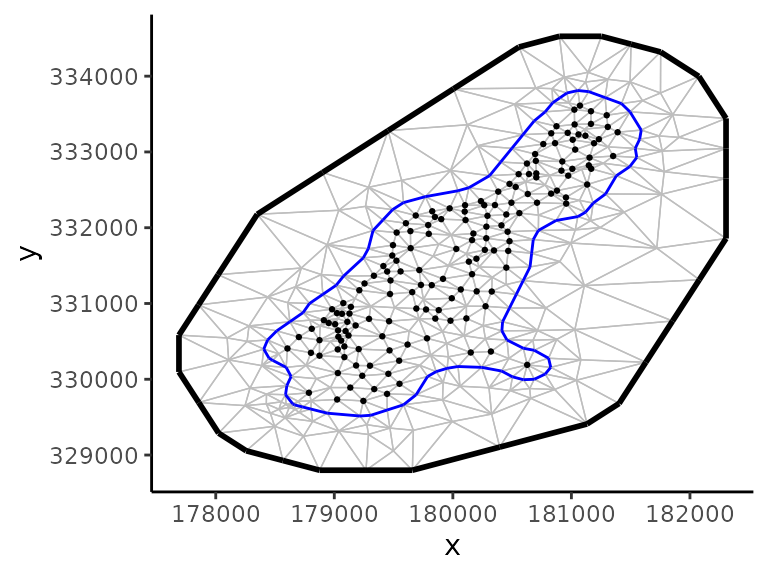
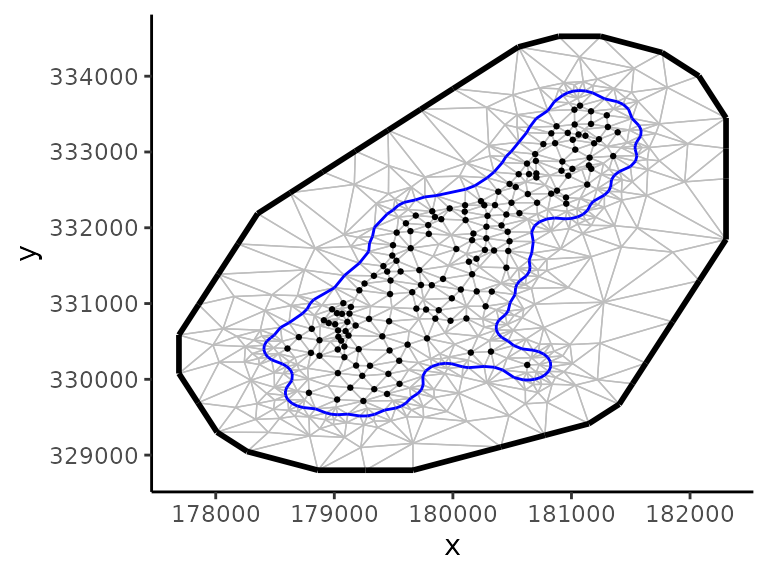
Built site for clustTMB: 0.0.1.0@48fe56d

Changed region(s): [[0.2188, 0.0625, 0.9375, 0.8125], [0.4688, 0.5, 0.5312, 0.5625], [0.7188, 0.875, 0.75, 0.9062]]

diff --git a/articles/SpatialExMeuseData.html b/articles/SpatialExMeuseData.html
@@ -173,38 +173,34 @@ measured in the topsoil of the Meuse river floodplain, Netherlands.
 cluster probability in clustTMB depends on the SPDE-FEM approximation to
 a spatial Gaussian Markov Random Field (GMRF) introduced by the package,
 <a href="https://www.r-inla.org/" class="external-link">R-INLA</a>. See <a href="#spatial-gmrf">Spatial GMRF</a> and <a href="#gating-network">Gating Network</a> for details on these clustTMB
-formulations.</p>
+formulations. The <a href="https://inlabru-org.github.io/fmesher" class="external-link">fmesher R package</a> (<a href="https://github.com/inlabru-org/fmesher" class="external-link">github source code</a>) is
+used to run functions needed to implement this SPDE-FEM method.</p>
 <div class="section level4">
 <h4 id="setting-up-the-spatial-mesh">Setting up the spatial mesh<a class="anchor" aria-label="anchor" href="#setting-up-the-spatial-mesh"></a>
 </h4>
 <p>The spatial model in clustTMB first requires the definition of the
-spatial mesh using the fmesher R package. This mesh defines the
-discretization of the continuous space using a constrained Delaunay
-triangulation. For details on building the spatial mesh, see <a href="https://becarioprecario.bitbucket.io/spde-gitbook/ch-intro.html#sec:mesh" class="external-link">Krainski
+spatial mesh. This mesh defines the discretization of the continuous
+space using a constrained Delaunay triangulation. For details on
+building the spatial mesh, see <a href="https://becarioprecario.bitbucket.io/spde-gitbook/ch-intro.html#sec:mesh" class="external-link">Krainski
 et al., 2021, Sec 2.6</a>.</p>
 <p>As an example, the spatial mesh for the meuse data is built using the
-R-INLA functions, inla.convex.hull() to set up the boundary and
-inla.mesh.2d() to generate the spatial mesh:</p>
+fmesher functions, fm_nonconvex_hull() to set up the boundary and
+fm_mesh_2d() to generate the spatial mesh:</p>
 <div class="sourceCode" id="cb5"><pre class="downlit sourceCode r">
-<code class="sourceCode R"><span><span class="kw"><a href="https://rdrr.io/r/base/library.html" class="external-link">library</a></span><span class="op">(</span><span class="va">INLA</span><span class="op">)</span> </span></code></pre></div>
-<pre><code><span><span class="co">## Loading required package: Matrix</span></span></code></pre>
-<pre><code><span><span class="co">## This is INLA_23.10.19-1 built 2023-10-19 08:26:30 UTC.</span></span>
-<span><span class="co">##  - See www.r-inla.org/contact-us for how to get help.</span></span>
-<span><span class="co">##  - List available models/likelihoods/etc with inla.list.models()</span></span>
-<span><span class="co">##  - Use inla.doc(&lt;NAME&gt;) to access documentation</span></span></code></pre>
-<div class="sourceCode" id="cb8"><pre class="downlit sourceCode r">
-<code class="sourceCode R"><span><span class="va">Loc</span> <span class="op">&lt;-</span> <span class="va">meuse</span><span class="op">[</span>, <span class="fl">1</span><span class="op">:</span><span class="fl">2</span><span class="op">]</span></span>
-<span><span class="va">Bnd</span> <span class="op">&lt;-</span> <span class="fu"><a href="https://rdrr.io/pkg/INLA/man/inla.nonconvex.hull.html" class="external-link">inla.nonconvex.hull</a></span><span class="op">(</span><span class="fu"><a href="https://rdrr.io/r/base/matrix.html" class="external-link">as.matrix</a></span><span class="op">(</span><span class="va">Loc</span><span class="op">)</span>, convex <span class="op">=</span> <span class="fl">200</span><span class="op">)</span></span>
-<span><span class="va">meuse.mesh</span> <span class="op">&lt;-</span> <span class="fu"><a href="https://rdrr.io/pkg/INLA/man/inla.mesh.2d.html" class="external-link">inla.mesh.2d</a></span><span class="op">(</span><span class="fu"><a href="https://rdrr.io/r/base/matrix.html" class="external-link">as.matrix</a></span><span class="op">(</span><span class="va">Loc</span><span class="op">)</span>,</span>
+<code class="sourceCode R"><span><span class="kw"><a href="https://rdrr.io/r/base/library.html" class="external-link">library</a></span><span class="op">(</span><span class="va"><a href="https://inlabru-org.github.io/fmesher/" class="external-link">fmesher</a></span><span class="op">)</span> </span>
+<span><span class="va">loc</span> <span class="op">&lt;-</span> <span class="va">meuse</span><span class="op">[</span>, <span class="fl">1</span><span class="op">:</span><span class="fl">2</span><span class="op">]</span></span>
+<span><span class="va">Bnd</span> <span class="op">&lt;-</span> <span class="fu">fmesher</span><span class="fu">::</span><span class="fu"><a href="https://inlabru-org.github.io/fmesher/reference/fm_nonconvex_hull.html" class="external-link">fm_nonconvex_hull</a></span><span class="op">(</span><span class="fu"><a href="https://rdrr.io/r/base/matrix.html" class="external-link">as.matrix</a></span><span class="op">(</span><span class="va">loc</span><span class="op">)</span>, convex <span class="op">=</span> <span class="fl">200</span><span class="op">)</span></span>
+<span><span class="va">meuse.mesh</span> <span class="op">&lt;-</span> <span class="fu">fmesher</span><span class="fu">::</span><span class="fu"><a href="https://inlabru-org.github.io/fmesher/reference/fm_mesh_2d.html" class="external-link">fm_mesh_2d</a></span><span class="op">(</span><span class="fu"><a href="https://rdrr.io/r/base/matrix.html" class="external-link">as.matrix</a></span><span class="op">(</span><span class="va">loc</span><span class="op">)</span>,</span>
 <span>  max.edge <span class="op">=</span> <span class="fu"><a href="https://rdrr.io/r/base/c.html" class="external-link">c</a></span><span class="op">(</span><span class="fl">300</span>, <span class="fl">1000</span><span class="op">)</span>,</span>
 <span>  boundary <span class="op">=</span> <span class="va">Bnd</span></span>
 <span><span class="op">)</span></span></code></pre></div>
 <p>The inlabru R package can be used to visualize the mesh:</p>
-<div class="sourceCode" id="cb9"><pre class="downlit sourceCode r">
+<div class="sourceCode" id="cb6"><pre class="downlit sourceCode r">
 <code class="sourceCode R"><span><span class="fu">ggplot</span><span class="op">(</span><span class="op">)</span> <span class="op">+</span></span>
 <span>  <span class="fu">inlabru</span><span class="fu">::</span><span class="fu"><a href="https://inlabru-org.github.io/inlabru/reference/gg.html" class="external-link">gg</a></span><span class="op">(</span><span class="va">meuse.mesh</span><span class="op">)</span> <span class="op">+</span></span>
-<span>  <span class="fu">geom_point</span><span class="op">(</span>mapping <span class="op">=</span> <span class="fu">aes</span><span class="op">(</span>x <span class="op">=</span> <span class="va">Loc</span><span class="op">[</span>, <span class="fl">1</span><span class="op">]</span>, y <span class="op">=</span> <span class="va">Loc</span><span class="op">[</span>, <span class="fl">2</span><span class="op">]</span>, size <span class="op">=</span> <span class="fl">0.5</span><span class="op">)</span>, size <span class="op">=</span> <span class="fl">0.5</span><span class="op">)</span> <span class="op">+</span></span>
+<span>  <span class="fu">geom_point</span><span class="op">(</span>mapping <span class="op">=</span> <span class="fu">aes</span><span class="op">(</span>x <span class="op">=</span> <span class="va">loc</span><span class="op">[</span>, <span class="fl">1</span><span class="op">]</span>, y <span class="op">=</span> <span class="va">loc</span><span class="op">[</span>, <span class="fl">2</span><span class="op">]</span>, size <span class="op">=</span> <span class="fl">0.5</span><span class="op">)</span>, size <span class="op">=</span> <span class="fl">0.5</span><span class="op">)</span> <span class="op">+</span></span>
 <span>  <span class="fu">theme_classic</span><span class="op">(</span><span class="op">)</span></span></code></pre></div>
+<pre><code><span><span class="co">## Loading required namespace: INLA</span></span></code></pre>
 <p><img src="SpatialExMeuseData_files/figure-html/fig1-1.png" width="384"></p>
 </div>
 <div class="section level4">
@@ -216,66 +212,66 @@ argument. Spatial projections can be generated by defining a spatial
 data frame of prediction coordinates. These can be passed into the model
 via the projection.dat argument of clustTMB. The gating formula is
 specified using the gmrf() command:</p>
-<div class="sourceCode" id="cb10"><pre class="downlit sourceCode r">
+<div class="sourceCode" id="cb8"><pre class="downlit sourceCode r">
 <code class="sourceCode R"><span><span class="co"># convert coordinates to a spatial point data frame</span></span>
-<span><span class="fu">sp</span><span class="fu">::</span><span class="fu"><a href="https://rdrr.io/pkg/sp/man/coordinates.html" class="external-link">coordinates</a></span><span class="op">(</span><span class="va">Loc</span><span class="op">)</span> <span class="op">&lt;-</span> <span class="op">~</span> <span class="va">x</span> <span class="op">*</span> <span class="va">y</span></span>
+<span><span class="va">Loc</span> <span class="op">&lt;-</span> <span class="fu">sf</span><span class="fu">::</span><span class="fu"><a href="https://r-spatial.github.io/sf/reference/st_as_sf.html" class="external-link">st_as_sf</a></span><span class="op">(</span><span class="va">loc</span>, coords <span class="op">=</span> <span class="fu"><a href="https://rdrr.io/r/base/c.html" class="external-link">c</a></span><span class="op">(</span><span class="st">"x"</span>, <span class="st">"y"</span><span class="op">)</span><span class="op">)</span></span>
 <span></span>
 <span><span class="co"># define spatial prediction coordinates</span></span>
 <span><span class="fu"><a href="https://rdrr.io/r/utils/data.html" class="external-link">data</a></span><span class="op">(</span><span class="st">"meuse.grid"</span><span class="op">)</span></span>
-<span><span class="fu">sp</span><span class="fu">::</span><span class="fu"><a href="https://rdrr.io/pkg/sp/man/coordinates.html" class="external-link">coordinates</a></span><span class="op">(</span><span class="va">meuse.grid</span><span class="op">)</span> <span class="op">&lt;-</span> <span class="op">~</span> <span class="va">x</span> <span class="op">*</span> <span class="va">y</span></span>
+<span><span class="va">Meuse.Grid</span> <span class="op">&lt;-</span> <span class="fu">sf</span><span class="fu">::</span><span class="fu"><a href="https://r-spatial.github.io/sf/reference/st_as_sf.html" class="external-link">st_as_sf</a></span><span class="op">(</span><span class="va">meuse.grid</span>, coords <span class="op">=</span> <span class="fu"><a href="https://rdrr.io/r/base/c.html" class="external-link">c</a></span><span class="op">(</span><span class="st">"x"</span>, <span class="st">"y"</span><span class="op">)</span><span class="op">)</span></span>
 <span><span class="va">mod.ln.sp</span> <span class="op">&lt;-</span> <span class="fu"><a href="../reference/clustTMB.html">clustTMB</a></span><span class="op">(</span></span>
 <span>  response <span class="op">=</span> <span class="va">meuse</span><span class="op">[</span>, <span class="fl">3</span><span class="op">:</span><span class="fl">6</span><span class="op">]</span>,</span>
 <span>  family <span class="op">=</span> <span class="fu"><a href="../reference/lognormal.html">lognormal</a></span><span class="op">(</span>link <span class="op">=</span> <span class="st">"identity"</span><span class="op">)</span>,</span>
 <span>  gatingformula <span class="op">=</span> <span class="op">~</span> <span class="fu">gmrf</span><span class="op">(</span><span class="fl">0</span> <span class="op">+</span> <span class="fl">1</span> <span class="op">|</span> <span class="va">loc</span><span class="op">)</span>,</span>
 <span>  G <span class="op">=</span> <span class="fl">4</span>, covariance.structure <span class="op">=</span> <span class="st">"VVV"</span>,</span>
 <span>  spatial.list <span class="op">=</span> <span class="fu"><a href="https://rdrr.io/r/base/list.html" class="external-link">list</a></span><span class="op">(</span>loc <span class="op">=</span> <span class="va">Loc</span>, mesh <span class="op">=</span> <span class="va">meuse.mesh</span><span class="op">)</span>,</span>
-<span>  projection.dat <span class="op">=</span> <span class="va">meuse.grid</span></span>
+<span>  projection.dat <span class="op">=</span> <span class="va">Meuse.Grid</span></span>
 <span><span class="op">)</span></span></code></pre></div>
 <p>Results can be viewed via model output:</p>
-<div class="sourceCode" id="cb11"><pre class="downlit sourceCode r">
+<div class="sourceCode" id="cb9"><pre class="downlit sourceCode r">
 <code class="sourceCode R"><span><span class="co"># Estimated fixed parameters</span></span>
 <span><span class="fu"><a href="https://rdrr.io/r/base/summary.html" class="external-link">summary</a></span><span class="op">(</span><span class="va">mod.ln.sp</span><span class="op">$</span><span class="va">sdr</span>, <span class="st">"fixed"</span><span class="op">)</span></span></code></pre></div>
 <pre><code><span><span class="co">##             Estimate Std. Error</span></span>
-<span><span class="co">## betag      0.1683812 0.51601529</span></span>
-<span><span class="co">## betag      0.5590729 0.51004272</span></span>
-<span><span class="co">## betag      0.1889659 0.50496727</span></span>
-<span><span class="co">## betad      2.0157803 0.09100879</span></span>
-<span><span class="co">## betad      4.3160900 0.03898682</span></span>
-<span><span class="co">## betad      5.4259834 0.08790526</span></span>
-<span><span class="co">## betad      6.7095859 0.08920062</span></span>
-<span><span class="co">## betad      1.0164095 0.03989451</span></span>
-<span><span class="co">## betad      3.6119050 0.03016298</span></span>
-<span><span class="co">## betad      5.2215840 0.04708026</span></span>
-<span><span class="co">## betad      6.2274890 0.04395388</span></span>
-<span><span class="co">## betad      0.1353934 0.06134531</span></span>
-<span><span class="co">## betad      3.1482199 0.02002526</span></span>
-<span><span class="co">## betad      4.2137136 0.04068769</span></span>
-<span><span class="co">## betad      5.2614043 0.03329949</span></span>
-<span><span class="co">## betad     -1.4361492 0.05510442</span></span>
-<span><span class="co">## betad      3.1132983 0.03560889</span></span>
-<span><span class="co">## betad      4.2118646 0.04706055</span></span>
-<span><span class="co">## betad      5.1996621 0.04976677</span></span>
-<span><span class="co">## theta     -1.2100794 0.16013202</span></span>
-<span><span class="co">## theta     -2.9055444 0.19071016</span></span>
-<span><span class="co">## theta     -1.2794723 0.15756915</span></span>
-<span><span class="co">## theta     -1.2502156 0.13950111</span></span>
-<span><span class="co">## theta     -2.5718322 0.17343370</span></span>
-<span><span class="co">## theta     -3.1310792 0.14034869</span></span>
-<span><span class="co">## theta     -2.2406020 0.13544295</span></span>
-<span><span class="co">## theta     -2.3780278 0.13367706</span></span>
-<span><span class="co">## theta     -1.8212730 0.17220463</span></span>
-<span><span class="co">## theta     -4.0603214 0.19161619</span></span>
-<span><span class="co">## theta     -2.6424593 0.14302688</span></span>
-<span><span class="co">## theta     -3.0432262 0.15385285</span></span>
-<span><span class="co">## theta     -2.4648462 0.25661329</span></span>
-<span><span class="co">## theta     -3.3381154 0.23942140</span></span>
-<span><span class="co">## theta     -2.7804358 0.20016979</span></span>
-<span><span class="co">## theta     -2.6686112 0.19753636</span></span>
-<span><span class="co">## ln_kappag -5.9298889 0.27995166</span></span></code></pre>
-<div class="sourceCode" id="cb13"><pre class="downlit sourceCode r">
+<span><span class="co">## betag      0.1778771 0.51240631</span></span>
+<span><span class="co">## betag      0.5710424 0.50603607</span></span>
+<span><span class="co">## betag      0.1653881 0.50250851</span></span>
+<span><span class="co">## betad      2.0157756 0.09100875</span></span>
+<span><span class="co">## betad      4.3160883 0.03898690</span></span>
+<span><span class="co">## betad      5.4259832 0.08790506</span></span>
+<span><span class="co">## betad      6.7095832 0.08920048</span></span>
+<span><span class="co">## betad      1.0064947 0.03967224</span></span>
+<span><span class="co">## betad      3.6030502 0.03008715</span></span>
+<span><span class="co">## betad      5.2113155 0.04647309</span></span>
+<span><span class="co">## betad      6.2155372 0.04387996</span></span>
+<span><span class="co">## betad      0.1259819 0.06250001</span></span>
+<span><span class="co">## betad      3.1475092 0.02038050</span></span>
+<span><span class="co">## betad      4.2016946 0.04031251</span></span>
+<span><span class="co">## betad      5.2523443 0.03330892</span></span>
+<span><span class="co">## betad     -1.4361509 0.05510449</span></span>
+<span><span class="co">## betad      3.1132984 0.03560900</span></span>
+<span><span class="co">## betad      4.2118630 0.04706059</span></span>
+<span><span class="co">## betad      5.1996609 0.04976673</span></span>
+<span><span class="co">## theta     -1.2100802 0.16013200</span></span>
+<span><span class="co">## theta     -2.9055404 0.19071068</span></span>
+<span><span class="co">## theta     -1.2794769 0.15756868</span></span>
+<span><span class="co">## theta     -1.2502188 0.13950085</span></span>
+<span><span class="co">## theta     -2.5623868 0.17078779</span></span>
+<span><span class="co">## theta     -3.1154938 0.13779683</span></span>
+<span><span class="co">## theta     -2.2459434 0.13350847</span></span>
+<span><span class="co">## theta     -2.3607749 0.13177502</span></span>
+<span><span class="co">## theta     -1.8075075 0.17469416</span></span>
+<span><span class="co">## theta     -4.0486840 0.19343376</span></span>
+<span><span class="co">## theta     -2.6845175 0.14489439</span></span>
+<span><span class="co">## theta     -3.0661905 0.15618033</span></span>
+<span><span class="co">## theta     -2.4648436 0.25661363</span></span>
+<span><span class="co">## theta     -3.3381094 0.23942221</span></span>
+<span><span class="co">## theta     -2.7804342 0.20017000</span></span>
+<span><span class="co">## theta     -2.6686127 0.19753608</span></span>
+<span><span class="co">## ln_kappag -5.9132703 0.28191188</span></span></code></pre>
+<div class="sourceCode" id="cb11"><pre class="downlit sourceCode r">
 <code class="sourceCode R"><span><span class="co"># Minimum negative log likelihood</span></span>
 <span><span class="va">mod.ln.sp</span><span class="op">$</span><span class="va">opt</span><span class="op">$</span><span class="va">objective</span></span></code></pre></div>
-<pre><code><span><span class="co">## [1] 2318.831</span></span></code></pre>
+<pre><code><span><span class="co">## [1] 2318.892</span></span></code></pre>
 </div>
 </div>
 </div>

diff --git a/reference/splitForm.html b/reference/splitForm.html
@@ -140,7 +140,7 @@ ultimately from the flexLambda branch of lme4
     <div class="sourceCode"><pre class="sourceCode r"><code><span class="r-in"><span><span class="fu">splitForm</span><span class="op">(</span><span class="op">~</span><span class="va">x</span><span class="op">+</span><span class="va">y</span><span class="op">)</span>                     <span class="co">## no specials or RE</span></span></span>
 <span class="r-out co"><span class="r-pr">#&gt;</span> $fixedFormula</span>
 <span class="r-out co"><span class="r-pr">#&gt;</span> ~x + y</span>
-<span class="r-out co"><span class="r-pr">#&gt;</span> &lt;environment: 0x555dca394e80&gt;</span>
+<span class="r-out co"><span class="r-pr">#&gt;</span> &lt;environment: 0x559bd33f8b78&gt;</span>
 <span class="r-out co"><span class="r-pr">#&gt;</span> </span>
 <span class="r-out co"><span class="r-pr">#&gt;</span> $reTrmFormulas</span>
 <span class="r-out co"><span class="r-pr">#&gt;</span> NULL</span>
@@ -154,7 +154,7 @@ ultimately from the flexLambda branch of lme4
 <span class="r-in"><span><span class="fu">splitForm</span><span class="op">(</span><span class="op">~</span><span class="va">x</span><span class="op">+</span><span class="va">y</span><span class="op">+</span><span class="op">(</span><span class="va">f</span><span class="op">|</span><span class="va">g</span><span class="op">)</span><span class="op">)</span>               <span class="co">## no specials</span></span></span>
 <span class="r-out co"><span class="r-pr">#&gt;</span> $fixedFormula</span>
 <span class="r-out co"><span class="r-pr">#&gt;</span> ~x + y</span>
-<span class="r-out co"><span class="r-pr">#&gt;</span> &lt;environment: 0x555dca394e80&gt;</span>
+<span class="r-out co"><span class="r-pr">#&gt;</span> &lt;environment: 0x559bd33f8b78&gt;</span>
 <span class="r-out co"><span class="r-pr">#&gt;</span> </span>
 <span class="r-out co"><span class="r-pr">#&gt;</span> $reTrmFormulas</span>
 <span class="r-out co"><span class="r-pr">#&gt;</span> NULL</span>
@@ -168,7 +168,7 @@ ultimately from the flexLambda branch of lme4
 <span class="r-in"><span><span class="fu">splitForm</span><span class="op">(</span><span class="op">~</span><span class="va">x</span><span class="op">+</span><span class="va">y</span><span class="op">+</span><span class="fu"><a href="https://rdrr.io/r/base/diag.html" class="external-link">diag</a></span><span class="op">(</span><span class="va">f</span><span class="op">|</span><span class="va">g</span><span class="op">)</span><span class="op">)</span>           <span class="co">## one special</span></span></span>
 <span class="r-out co"><span class="r-pr">#&gt;</span> $fixedFormula</span>
 <span class="r-out co"><span class="r-pr">#&gt;</span> ~x + y</span>
-<span class="r-out co"><span class="r-pr">#&gt;</span> &lt;environment: 0x555dca394e80&gt;</span>
+<span class="r-out co"><span class="r-pr">#&gt;</span> &lt;environment: 0x559bd33f8b78&gt;</span>
 <span class="r-out co"><span class="r-pr">#&gt;</span> </span>
 <span class="r-out co"><span class="r-pr">#&gt;</span> $reTrmFormulas</span>
 <span class="r-out co"><span class="r-pr">#&gt;</span> NULL</span>
@@ -182,7 +182,7 @@ ultimately from the flexLambda branch of lme4
 <span class="r-in"><span><span class="fu">splitForm</span><span class="op">(</span><span class="op">~</span><span class="va">x</span><span class="op">+</span><span class="va">y</span><span class="op">+</span><span class="op">(</span><span class="fu"><a href="https://rdrr.io/r/base/diag.html" class="external-link">diag</a></span><span class="op">(</span><span class="va">f</span><span class="op">|</span><span class="va">g</span><span class="op">)</span><span class="op">)</span><span class="op">)</span>         <span class="co">## 'hidden' special</span></span></span>
 <span class="r-out co"><span class="r-pr">#&gt;</span> $fixedFormula</span>
 <span class="r-out co"><span class="r-pr">#&gt;</span> ~x + y</span>
-<span class="r-out co"><span class="r-pr">#&gt;</span> &lt;environment: 0x555dca394e80&gt;</span>
+<span class="r-out co"><span class="r-pr">#&gt;</span> &lt;environment: 0x559bd33f8b78&gt;</span>
 <span class="r-out co"><span class="r-pr">#&gt;</span> </span>
 <span class="r-out co"><span class="r-pr">#&gt;</span> $reTrmFormulas</span>
 <span class="r-out co"><span class="r-pr">#&gt;</span> NULL</span>
@@ -196,7 +196,7 @@ ultimately from the flexLambda branch of lme4
 <span class="r-in"><span><span class="fu">splitForm</span><span class="op">(</span><span class="op">~</span><span class="va">x</span><span class="op">+</span><span class="va">y</span><span class="op">+</span><span class="op">(</span><span class="va">f</span><span class="op">|</span><span class="va">g</span><span class="op">)</span><span class="op">+</span><span class="fu">cs</span><span class="op">(</span><span class="fl">1</span><span class="op">|</span><span class="va">g</span><span class="op">)</span><span class="op">)</span>       <span class="co">## combination</span></span></span>
 <span class="r-out co"><span class="r-pr">#&gt;</span> $fixedFormula</span>
 <span class="r-out co"><span class="r-pr">#&gt;</span> ~x + y</span>
-<span class="r-out co"><span class="r-pr">#&gt;</span> &lt;environment: 0x555dca394e80&gt;</span>
+<span class="r-out co"><span class="r-pr">#&gt;</span> &lt;environment: 0x559bd33f8b78&gt;</span>
 <span class="r-out co"><span class="r-pr">#&gt;</span> </span>
 <span class="r-out co"><span class="r-pr">#&gt;</span> $reTrmFormulas</span>
 <span class="r-out co"><span class="r-pr">#&gt;</span> NULL</span>
@@ -210,7 +210,7 @@ ultimately from the flexLambda branch of lme4
 <span class="r-in"><span><span class="fu">splitForm</span><span class="op">(</span><span class="op">~</span><span class="va">x</span><span class="op">+</span><span class="va">y</span><span class="op">+</span><span class="op">(</span><span class="fl">1</span><span class="op">|</span><span class="va">f</span><span class="op">/</span><span class="va">g</span><span class="op">)</span><span class="op">)</span>             <span class="co">## 'slash'; term</span></span></span>
 <span class="r-out co"><span class="r-pr">#&gt;</span> $fixedFormula</span>
 <span class="r-out co"><span class="r-pr">#&gt;</span> ~x + y</span>
-<span class="r-out co"><span class="r-pr">#&gt;</span> &lt;environment: 0x555dca394e80&gt;</span>
+<span class="r-out co"><span class="r-pr">#&gt;</span> &lt;environment: 0x559bd33f8b78&gt;</span>
 <span class="r-out co"><span class="r-pr">#&gt;</span> </span>
 <span class="r-out co"><span class="r-pr">#&gt;</span> $reTrmFormulas</span>
 <span class="r-out co"><span class="r-pr">#&gt;</span> NULL</span>
@@ -224,7 +224,7 @@ ultimately from the flexLambda branch of lme4
 <span class="r-in"><span><span class="fu">splitForm</span><span class="op">(</span><span class="op">~</span><span class="va">x</span><span class="op">+</span><span class="va">y</span><span class="op">+</span><span class="op">(</span><span class="fl">1</span><span class="op">|</span><span class="va">f</span><span class="op">/</span><span class="va">g</span><span class="op">/</span><span class="va">h</span><span class="op">)</span><span class="op">)</span>             <span class="co">## 'slash'; term</span></span></span>
 <span class="r-out co"><span class="r-pr">#&gt;</span> $fixedFormula</span>
 <span class="r-out co"><span class="r-pr">#&gt;</span> ~x + y</span>
-<span class="r-out co"><span class="r-pr">#&gt;</span> &lt;environment: 0x555dca394e80&gt;</span>
+<span class="r-out co"><span class="r-pr">#&gt;</span> &lt;environment: 0x559bd33f8b78&gt;</span>
 <span class="r-out co"><span class="r-pr">#&gt;</span> </span>
 <span class="r-out co"><span class="r-pr">#&gt;</span> $reTrmFormulas</span>
 <span class="r-out co"><span class="r-pr">#&gt;</span> NULL</span>
@@ -238,7 +238,7 @@ ultimately from the flexLambda branch of lme4
 <span class="r-in"><span><span class="fu">splitForm</span><span class="op">(</span><span class="op">~</span><span class="va">x</span><span class="op">+</span><span class="va">y</span><span class="op">+</span><span class="op">(</span><span class="fl">1</span><span class="op">|</span><span class="op">(</span><span class="va">f</span><span class="op">/</span><span class="va">g</span><span class="op">)</span><span class="op">/</span><span class="va">h</span><span class="op">)</span><span class="op">)</span>             <span class="co">## 'slash'; term</span></span></span>
 <span class="r-out co"><span class="r-pr">#&gt;</span> $fixedFormula</span>
 <span class="r-out co"><span class="r-pr">#&gt;</span> ~x + y</span>
-<span class="r-out co"><span class="r-pr">#&gt;</span> &lt;environment: 0x555dca394e80&gt;</span>
+<span class="r-out co"><span class="r-pr">#&gt;</span> &lt;environment: 0x559bd33f8b78&gt;</span>
 <span class="r-out co"><span class="r-pr">#&gt;</span> </span>
 <span class="r-out co"><span class="r-pr">#&gt;</span> $reTrmFormulas</span>
 <span class="r-out co"><span class="r-pr">#&gt;</span> NULL</span>
@@ -252,7 +252,7 @@ ultimately from the flexLambda branch of lme4
 <span class="r-in"><span><span class="fu">splitForm</span><span class="op">(</span><span class="op">~</span><span class="va">x</span><span class="op">+</span><span class="va">y</span><span class="op">+</span><span class="op">(</span><span class="va">f</span><span class="op">|</span><span class="va">g</span><span class="op">)</span><span class="op">+</span><span class="fu">cs</span><span class="op">(</span><span class="fl">1</span><span class="op">|</span><span class="va">g</span><span class="op">)</span><span class="op">+</span><span class="fu">cs</span><span class="op">(</span><span class="va">a</span><span class="op">|</span><span class="va">b</span>,<span class="va">stuff</span><span class="op">)</span><span class="op">)</span>  <span class="co">## complex special</span></span></span>
 <span class="r-out co"><span class="r-pr">#&gt;</span> $fixedFormula</span>
 <span class="r-out co"><span class="r-pr">#&gt;</span> ~x + y</span>
-<span class="r-out co"><span class="r-pr">#&gt;</span> &lt;environment: 0x555dca394e80&gt;</span>
+<span class="r-out co"><span class="r-pr">#&gt;</span> &lt;environment: 0x559bd33f8b78&gt;</span>
 <span class="r-out co"><span class="r-pr">#&gt;</span> </span>
 <span class="r-out co"><span class="r-pr">#&gt;</span> $reTrmFormulas</span>
 <span class="r-out co"><span class="r-pr">#&gt;</span> NULL</span>
@@ -266,7 +266,7 @@ ultimately from the flexLambda branch of lme4
 <span class="r-in"><span><span class="fu">splitForm</span><span class="op">(</span><span class="op">~</span><span class="op">(</span><span class="op">(</span><span class="op">(</span><span class="va">x</span><span class="op">+</span><span class="va">y</span><span class="op">)</span><span class="op">)</span><span class="op">)</span><span class="op">)</span>               <span class="co">## lots of parentheses</span></span></span>
 <span class="r-out co"><span class="r-pr">#&gt;</span> $fixedFormula</span>
 <span class="r-out co"><span class="r-pr">#&gt;</span> ~(((x + y)))</span>
-<span class="r-out co"><span class="r-pr">#&gt;</span> &lt;environment: 0x555dca394e80&gt;</span>
+<span class="r-out co"><span class="r-pr">#&gt;</span> &lt;environment: 0x559bd33f8b78&gt;</span>
 <span class="r-out co"><span class="r-pr">#&gt;</span> </span>
 <span class="r-out co"><span class="r-pr">#&gt;</span> $reTrmFormulas</span>
 <span class="r-out co"><span class="r-pr">#&gt;</span> NULL</span>
@@ -280,7 +280,7 @@ ultimately from the flexLambda branch of lme4
 <span class="r-in"><span><span class="fu">splitForm</span><span class="op">(</span><span class="op">~</span><span class="fl">1</span><span class="op">+</span><span class="fu">rr</span><span class="op">(</span><span class="va">f</span><span class="op">|</span><span class="va">g</span>,n<span class="op">=</span><span class="fl">2</span><span class="op">)</span><span class="op">)</span></span></span>
 <span class="r-out co"><span class="r-pr">#&gt;</span> $fixedFormula</span>
 <span class="r-out co"><span class="r-pr">#&gt;</span> ~1</span>
-<span class="r-out co"><span class="r-pr">#&gt;</span> &lt;environment: 0x555dca394e80&gt;</span>
+<span class="r-out co"><span class="r-pr">#&gt;</span> &lt;environment: 0x559bd33f8b78&gt;</span>
 <span class="r-out co"><span class="r-pr">#&gt;</span> </span>
 <span class="r-out co"><span class="r-pr">#&gt;</span> $reTrmFormulas</span>
 <span class="r-out co"><span class="r-pr">#&gt;</span> NULL</span>

diff --git a/articles/CovarianceStructure.html b/articles/CovarianceStructure.html
@@ -112,7 +112,7 @@
 <p>This vignette details the different covariance structures available
 in clustTMB.</p>
 <div class="section level2">
-<h2 id="random-effect-covariace-matrices">Random Effect Covariace Matrices<a class="anchor" aria-label="anchor" href="#random-effect-covariace-matrices"></a>
+<h2 id="random-effect-covariance-matrices">Random Effect Covariance Matrices<a class="anchor" aria-label="anchor" href="#random-effect-covariance-matrices"></a>
 </h2>
 <table class="table">
 <thead><tr>
@@ -216,9 +216,9 @@ details and examples</a> and <a href="https://becarioprecario.bitbucket.io/spde-
 for mesh assessment</a> from</p>
 <p>In this example, the following mesh specifications were used:</p>
 <div class="sourceCode" id="cb1"><pre class="downlit sourceCode r">
-<code class="sourceCode R"><span><span class="va">Loc</span> <span class="op">&lt;-</span> <span class="va">meuse</span><span class="op">[</span>, <span class="fl">1</span><span class="op">:</span><span class="fl">2</span><span class="op">]</span></span>
-<span><span class="va">Bnd</span> <span class="op">&lt;-</span> <span class="fu">fmesher</span><span class="fu">::</span><span class="fu"><a href="https://inlabru-org.github.io/fmesher/reference/fm_nonconvex_hull.html" class="external-link">fm_nonconvex_hull</a></span><span class="op">(</span><span class="fu"><a href="https://rdrr.io/r/base/matrix.html" class="external-link">as.matrix</a></span><span class="op">(</span><span class="va">Loc</span><span class="op">)</span>, convex <span class="op">=</span> <span class="fl">200</span><span class="op">)</span></span>
-<span><span class="va">meuse.mesh</span> <span class="op">&lt;-</span> <span class="fu">fmesher</span><span class="fu">::</span><span class="fu"><a href="https://inlabru-org.github.io/fmesher/reference/fm_mesh_2d.html" class="external-link">fm_mesh_2d</a></span><span class="op">(</span><span class="fu"><a href="https://rdrr.io/r/base/matrix.html" class="external-link">as.matrix</a></span><span class="op">(</span><span class="va">Loc</span><span class="op">)</span>,</span>
+<code class="sourceCode R"><span><span class="va">loc</span> <span class="op">&lt;-</span> <span class="va">meuse</span><span class="op">[</span>, <span class="fl">1</span><span class="op">:</span><span class="fl">2</span><span class="op">]</span></span>
+<span><span class="va">Bnd</span> <span class="op">&lt;-</span> <span class="fu">fmesher</span><span class="fu">::</span><span class="fu"><a href="https://inlabru-org.github.io/fmesher/reference/fm_nonconvex_hull.html" class="external-link">fm_nonconvex_hull</a></span><span class="op">(</span><span class="fu"><a href="https://rdrr.io/r/base/matrix.html" class="external-link">as.matrix</a></span><span class="op">(</span><span class="va">loc</span><span class="op">)</span>, convex <span class="op">=</span> <span class="fl">200</span><span class="op">)</span></span>
+<span><span class="va">meuse.mesh</span> <span class="op">&lt;-</span> <span class="fu">fmesher</span><span class="fu">::</span><span class="fu"><a href="https://inlabru-org.github.io/fmesher/reference/fm_mesh_2d.html" class="external-link">fm_mesh_2d</a></span><span class="op">(</span><span class="fu"><a href="https://rdrr.io/r/base/matrix.html" class="external-link">as.matrix</a></span><span class="op">(</span><span class="va">loc</span><span class="op">)</span>,</span>
 <span>  max.edge <span class="op">=</span> <span class="fu"><a href="https://rdrr.io/r/base/c.html" class="external-link">c</a></span><span class="op">(</span><span class="fl">300</span>, <span class="fl">1000</span><span class="op">)</span>,</span>
 <span>  boundary <span class="op">=</span> <span class="va">Bnd</span></span>
 <span><span class="op">)</span></span></code></pre></div>
@@ -228,7 +228,7 @@ for mesh assessment</a> from</p>
 the clustTMB model, along with the mesh, using the spatial.list
 argument. The gating formula is specified using the gmrf() command:</p>
 <div class="sourceCode" id="cb3"><pre class="downlit sourceCode r">
-<code class="sourceCode R"><span><span class="fu">sp</span><span class="fu">::</span><span class="fu"><a href="https://rdrr.io/pkg/sp/man/coordinates.html" class="external-link">coordinates</a></span><span class="op">(</span><span class="va">Loc</span><span class="op">)</span> <span class="op">&lt;-</span> <span class="op">~</span> <span class="va">x</span> <span class="op">*</span> <span class="va">y</span></span>
+<code class="sourceCode R"><span><span class="va">Loc</span> <span class="op">&lt;-</span> <span class="fu">sf</span><span class="fu">::</span><span class="fu"><a href="https://r-spatial.github.io/sf/reference/st_as_sf.html" class="external-link">st_as_sf</a></span><span class="op">(</span><span class="va">loc</span>, coords <span class="op">=</span> <span class="fu"><a href="https://rdrr.io/r/base/c.html" class="external-link">c</a></span><span class="op">(</span><span class="st">"x"</span>, <span class="st">"y"</span><span class="op">)</span><span class="op">)</span></span>
 <span><span class="va">mod</span> <span class="op">&lt;-</span> <span class="fu"><a href="../reference/clustTMB.html">clustTMB</a></span><span class="op">(</span></span>
 <span>  response <span class="op">=</span> <span class="va">meuse</span><span class="op">[</span>, <span class="fl">3</span><span class="op">:</span><span class="fl">6</span><span class="op">]</span>,</span>
 <span>  family <span class="op">=</span> <span class="fu"><a href="../reference/lognormal.html">lognormal</a></span><span class="op">(</span>link <span class="op">=</span> <span class="st">"identity"</span><span class="op">)</span>,</span>
@@ -247,17 +247,17 @@ nlminb commands:</p>
 <code class="sourceCode R"><span><span class="co"># Estimated fixed parameters</span></span>
 <span><span class="va">mod</span><span class="op">$</span><span class="va">opt</span><span class="op">$</span><span class="va">par</span></span></code></pre></div>
 <pre><code><span><span class="co">##      betag      betag      betag      betad      betad      betad      betad </span></span>
-<span><span class="co">##  0.1779633  0.5710262  0.1653805  2.0157754  4.3160879  5.4259854  6.7095846 </span></span>
+<span><span class="co">##  0.1778528  0.5710487  0.1653790  2.0157806  4.3160917  5.4259825  6.7095843 </span></span>
 <span><span class="co">##      betad      betad      betad      betad      betad      betad      betad </span></span>
-<span><span class="co">##  1.0064930  3.6030490  5.2113133  6.2155349  0.1259768  3.1475084  4.2016906 </span></span>
+<span><span class="co">##  1.0064951  3.6030499  5.2113145  6.2155354  0.1259816  3.1475079  4.2016933 </span></span>
 <span><span class="co">##      betad      betad      betad      betad      betad      theta      theta </span></span>
-<span><span class="co">##  5.2523426 -1.4361462  3.1132983  4.2118618  5.1996603 -1.2100823 -2.9055409 </span></span>
+<span><span class="co">##  5.2523427 -1.4361541  3.1132965  4.2118641  5.1996590 -1.2100842 -2.9055361 </span></span>
 <span><span class="co">##      theta      theta      theta      theta      theta      theta      theta </span></span>
-<span><span class="co">## -1.2794678 -1.2502165 -2.5623734 -3.1154904 -2.2459369 -2.3607750 -1.8075105 </span></span>
+<span><span class="co">## -1.2794745 -1.2502162 -2.5623862 -3.1154910 -2.2459436 -2.3607736 -1.8075205 </span></span>
 <span><span class="co">##      theta      theta      theta      theta      theta      theta      theta </span></span>
-<span><span class="co">## -4.0486806 -2.6845167 -3.0661953 -2.4648421 -3.3381013 -2.7804343 -2.6686288 </span></span>
+<span><span class="co">## -4.0486953 -2.6845260 -3.0661872 -2.4648550 -3.3381349 -2.7804419 -2.6686037 </span></span>
 <span><span class="co">##  ln_kappag </span></span>
-<span><span class="co">## -5.9132661</span></span></code></pre>
+<span><span class="co">## -5.9132723</span></span></code></pre>
 <div class="sourceCode" id="cb8"><pre class="downlit sourceCode r">
 <code class="sourceCode R"><span><span class="co"># Minimum negative log likelihood</span></span>
 <span><span class="va">mod</span><span class="op">$</span><span class="va">opt</span><span class="op">$</span><span class="va">objective</span></span></code></pre></div>

diff --git a/reference/findbars_x.html b/reference/findbars_x.html
@@ -127,7 +127,7 @@ special type; we won't allow pathological cases like
     <div class="sourceCode"><pre class="sourceCode r"><code><span class="r-in"><span><span class="fu"><a href="splitForm.html">splitForm</a></span><span class="op">(</span><span class="fu"><a href="https://rdrr.io/r/base/substitute.html" class="external-link">quote</a></span><span class="op">(</span><span class="fu">us</span><span class="op">(</span><span class="va">x</span>,n<span class="op">=</span><span class="fl">2</span><span class="op">)</span><span class="op">)</span><span class="op">)</span></span></span>
 <span class="r-out co"><span class="r-pr">#&gt;</span> $fixedFormula</span>
 <span class="r-out co"><span class="r-pr">#&gt;</span> ~1</span>
-<span class="r-out co"><span class="r-pr">#&gt;</span> &lt;environment: 0x555dd77e3bc0&gt;</span>
+<span class="r-out co"><span class="r-pr">#&gt;</span> &lt;environment: 0x559bde77a370&gt;</span>
 <span class="r-out co"><span class="r-pr">#&gt;</span> </span>
 <span class="r-out co"><span class="r-pr">#&gt;</span> $reTrmFormulas</span>
 <span class="r-out co"><span class="r-pr">#&gt;</span> NULL</span>

diff --git a/reference/skewness.html b/reference/skewness.html
@@ -102,7 +102,7 @@
     <div id="ref-examples">
     <h2>Examples</h2>
     <div class="sourceCode"><pre class="sourceCode r"><code><span class="r-in"><span><span class="fu">skewness</span><span class="op">(</span><span class="fu"><a href="https://rdrr.io/r/stats/GammaDist.html" class="external-link">rgamma</a></span><span class="op">(</span><span class="fl">100</span>, <span class="fl">1</span>, <span class="fl">1</span><span class="op">)</span><span class="op">)</span></span></span>
-<span class="r-out co"><span class="r-pr">#&gt;</span> [1] 2.390739</span>
+<span class="r-out co"><span class="r-pr">#&gt;</span> [1] 3.763783</span>
 </code></pre></div>
     </div>
   </div>
